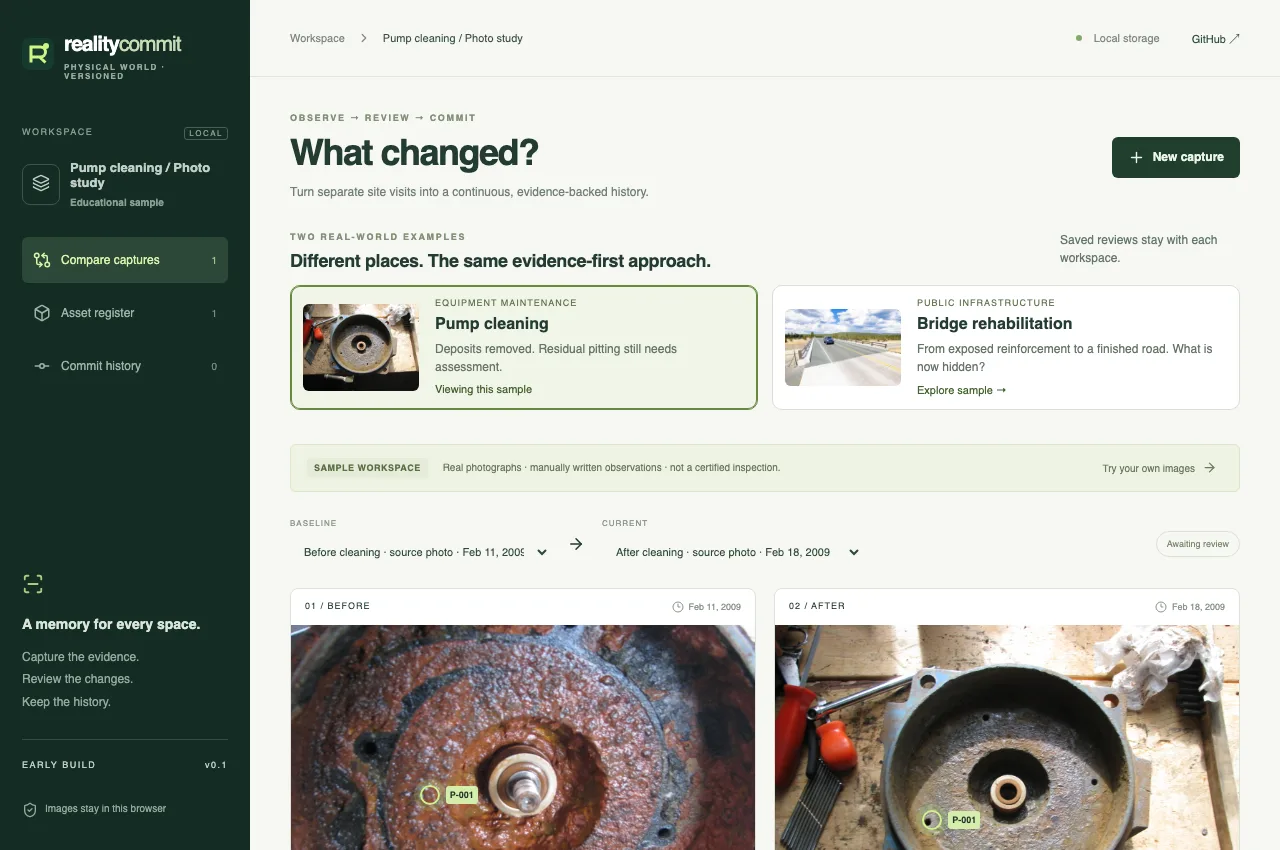
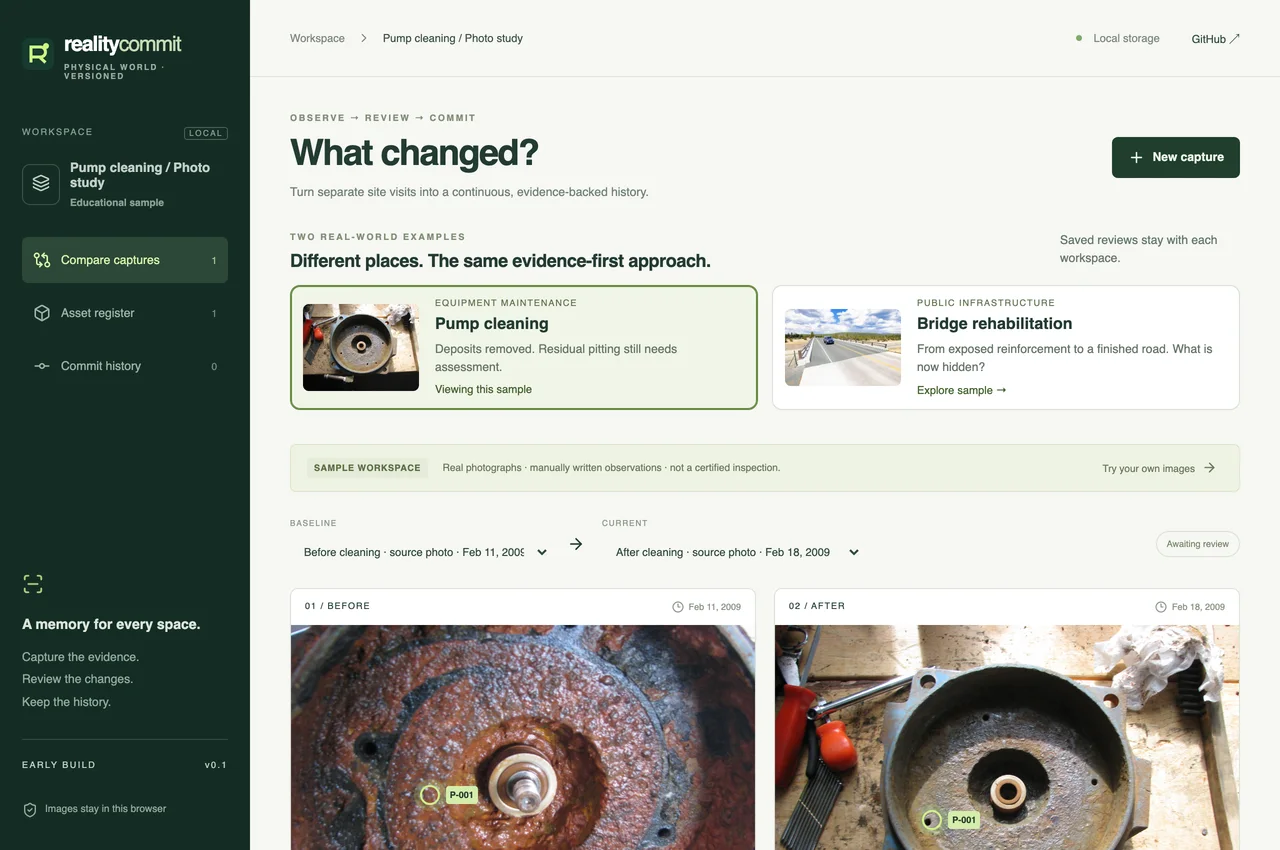
Fresh screenshot of Reality Commit
Captured today from the public demo's pump sample, same view and size as before; all three demo screenshots now date from October 2026.

Changed region(s): [[0.8438, 0.2753, 0.875, 0.3059], [0.0625, 0.1835, 0.0938, 0.2141]]

diff --git a/app/project-evidence.tsx b/app/project-evidence.tsx
@@ -9,7 +9,7 @@ const evidence: Record<string, { image: string; alt: string; captured: string; d
   },
   "reality-commit": {
     image: "reality-commit", alt: "Reality Commit comparing before and after photographs in a sample pump-maintenance workspace",
-    captured: "September 2026",
+    captured: "October 2026",
     decision: "Keep observations separate from conclusions. Reviewers verify proposed changes before saving a history entry.",
     limit: "Manual annotations, IndexedDB storage, and JSON export. No automated inspection or image diagnosis.",
   },

diff --git a/public/projects/README.md b/public/projects/README.md
@@ -1,6 +1,6 @@
 # Portfolio screenshots
 
-Captured from the public demonstration applications, using fresh browser sessions and fictional/sample records (`reality-commit.webp` on September 27, 2026; `dispatchtrack.webp` and `cloud-quest.webp` refreshed on October 14, 2026). Optimized to WebP for the portfolio; these are screenshots, not product mockups.
+Captured October 14, 2026 from the public demonstration applications, using fresh browser sessions and fictional/sample records. Optimized to WebP for the portfolio; these are screenshots, not product mockups.
 
 - `dispatchtrack.webp`: https://humbertovillanueva.github.io/dispatchtrack-demo/
 - `cloud-quest.webp`: https://humbertovillanueva.github.io/aws-cloud-quest/
